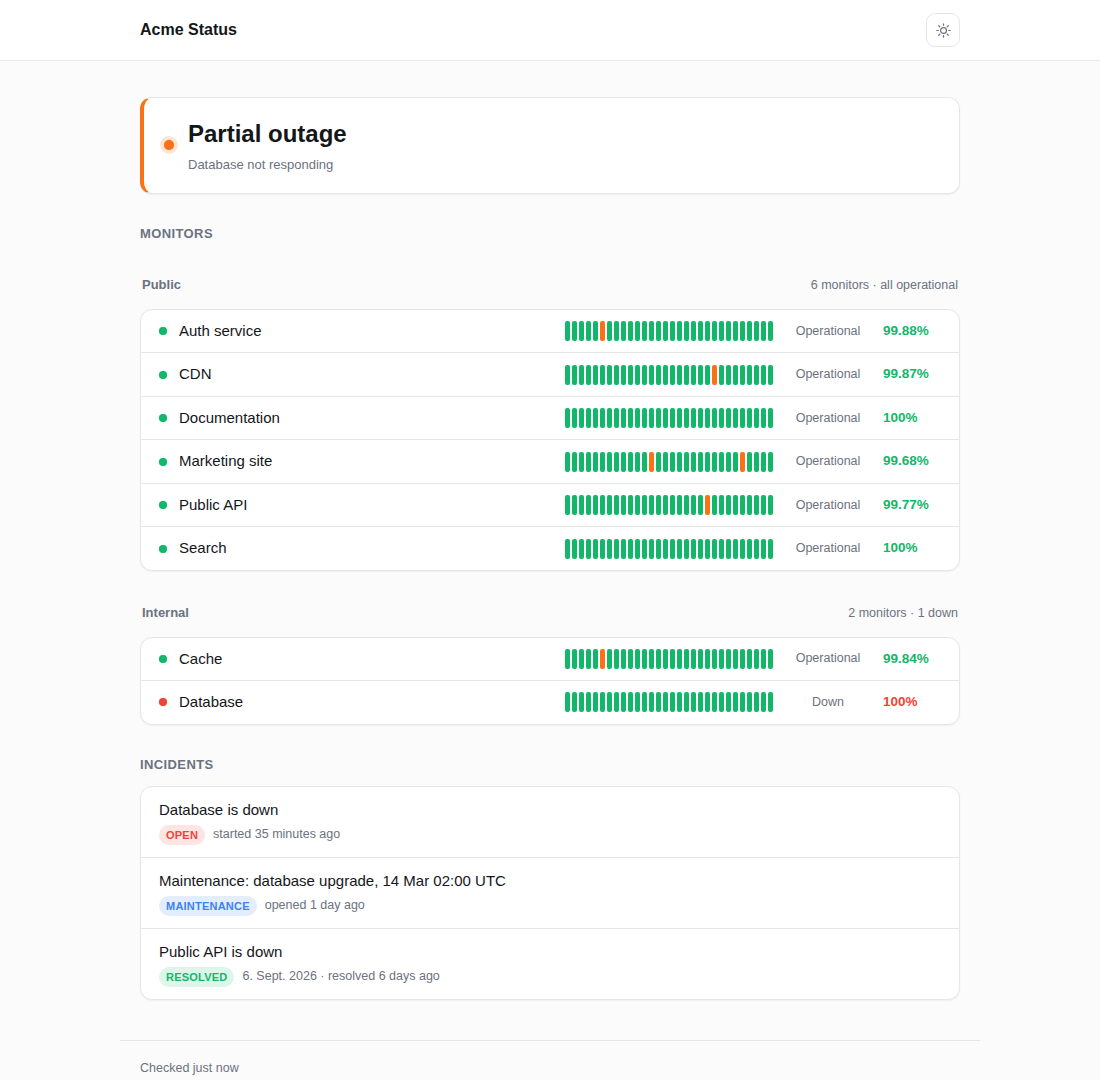
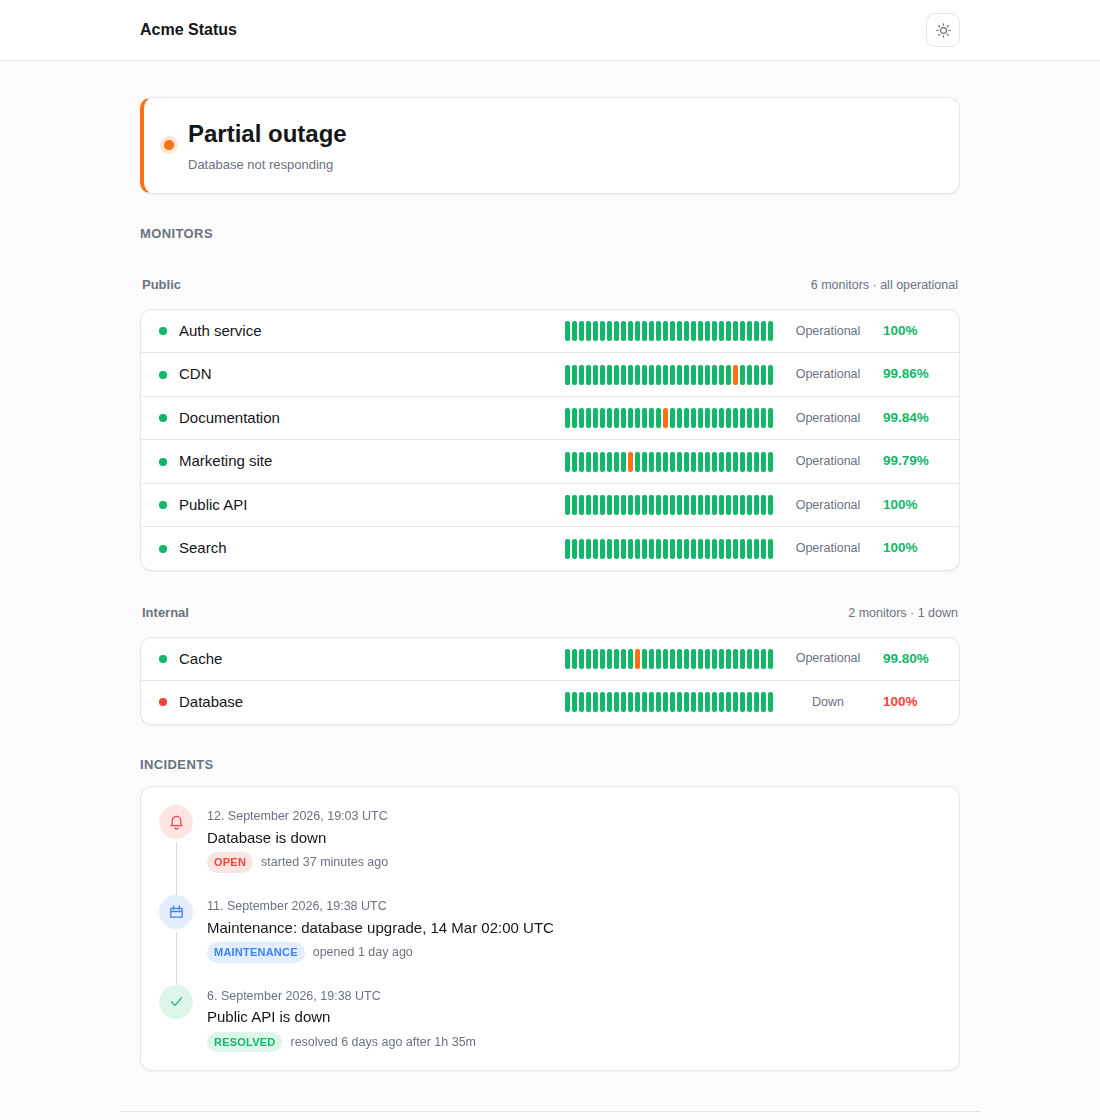
feat: incidents read as a timeline
Each incident is an entry on a line now: a marker coloured for what it is, an
outage, planned maintenance or something resolved, joined to the next entry,
with the date and time it happened as the entry's heading and the title below
it.

Date and time are formatted apart and joined with a comma, because asking a
locale for both at once puts a connecting word between them, and stated in
UTC so they mean the same to every reader.

The list in a monitor's details is the same timeline, since both are built by
the same renderer.

diff --git a/site/app.js b/site/app.js
@@ -65,6 +65,24 @@ function elapsed(from, to) {
   return `${Math.floor(hours / 24)}d ${hours % 24}h`;
 }
 
+// Date and time are formatted apart and joined with a comma: asking for both
+// at once gives some locales a connecting word in the middle.
+function formatDateTime(iso) {
+  const at = new Date(iso);
+  const day = at.toLocaleDateString(undefined, {
+    day: 'numeric',
+    month: 'long',
+    year: 'numeric',
+    timeZone: 'UTC',
+  });
+  const time = at.toLocaleTimeString(undefined, {
+    hour: '2-digit',
+    minute: '2-digit',
+    timeZone: 'UTC',
+  });
+  return `${day}, ${time} UTC`;
+}
+
 function formatDate(iso) {
   return new Date(iso).toLocaleDateString(undefined, { month: 'short', day: 'numeric', year: 'numeric' });
 }
@@ -215,20 +233,36 @@ function figure(value, label) {
   return box;
 }
 
+const INCIDENT_ICONS = {
+  open: 'M12 3.5a6 6 0 0 1 6 6v4l1.6 3H4.4L6 13.5v-4a6 6 0 0 1 6-6zM9.7 19.5a2.4 2.4 0 0 0 4.6 0',
+  maintenance: 'M4 7.5h16v12.5H4zM8 4v5M16 4v5M4 12h16',
+  resolved: 'M5 12.5 10 17.5 19 7',
+};
+
+// One entry of the timeline: when it happened, what happened, and how it went.
 function renderIncidentItem(incident) {
-  const item = el('li');
-  const open = () => {
+  const state = incident.maintenance ? 'maintenance' : incident.state === 'open' ? 'open' : 'resolved';
+  const item = el('li', 'event');
+  item.dataset.state = state;
+
+  const icon = el('span', 'event-icon');
+  const mark = svg('svg', { viewBox: '0 0 24 24' });
+  mark.append(svg('path', { d: INCIDENT_ICONS[state], 'stroke-linecap': 'round', 'stroke-linejoin': 'round' }));
+  icon.append(mark);
+
+  const body = el('div', 'event-body');
+  body.append(el('div', 'event-date', formatDateTime(incident.createdAt)));
+
+  const title = el('button', 'incident-title', incident.title);
+  title.type = 'button';
+  title.addEventListener('click', () => {
     const hash = `#/incident/${incident.number}`;
     if (location.hash === hash) openIncident(incident.number);
     else location.hash = hash;
-  };
-  const title = el('button', 'incident-title', incident.title);
-  title.type = 'button';
-  title.addEventListener('click', open);
-  item.append(title);
+  });
+  body.append(title);
 
   const meta = el('div', 'incident-meta');
-  const state = incident.maintenance ? 'maintenance' : incident.state === 'open' ? 'open' : 'resolved';
   meta.append(el('span', `tag tag-${state}`, state));
   meta.append(
     el(
@@ -236,10 +270,12 @@ function renderIncidentItem(incident) {
       null,
       incident.state === 'open'
         ? `${incident.maintenance ? 'opened' : 'started'} ${relative(incident.createdAt)}`
-        : `${formatDate(incident.createdAt)} · ${incident.maintenance ? 'completed' : 'resolved'} ${relative(incident.closedAt)}`,
+        : `${incident.maintenance ? 'completed' : 'resolved'} ${relative(incident.closedAt)} after ${elapsed(incident.createdAt, incident.closedAt)}`,
     ),
   );
-  item.append(meta);
+  body.append(meta);
+
+  item.append(icon, body);
   return item;
 }
 

diff --git a/site/style.css b/site/style.css
@@ -204,32 +204,84 @@ main.shell {
   padding: 0;
 }
 
-.incident-list li {
-  padding: 10px 0;
-  border-top: 1px solid var(--border);
+/* A timeline: a marker per entry, joined by a line down to the next one. */
+.event {
+  position: relative;
+  display: flex;
+  gap: 14px;
+  padding-bottom: 22px;
 }
 
-.incident-list li:first-child {
-  border-top: 0;
+.event:last-child {
+  padding-bottom: 0;
+}
+
+.event:not(:last-child)::before {
+  content: '';
+  position: absolute;
+  left: 17px;
+  top: 37px;
+  bottom: -3px;
+  width: 1px;
+  background: color-mix(in srgb, var(--text) 16%, transparent);
+}
+
+.event-icon {
+  flex: none;
+  display: grid;
+  place-items: center;
+  width: 34px;
+  height: 34px;
+  border-radius: 50%;
+  background: color-mix(in srgb, var(--status, var(--muted)) 14%, var(--surface));
+  color: var(--status, var(--muted));
+}
+
+.event[data-state='open'] {
+  --status: var(--down);
+}
+
+.event[data-state='maintenance'] {
+  --status: #3b82f6;
+}
+
+.event[data-state='resolved'] {
+  --status: var(--up);
+}
+
+.event-icon svg {
+  width: 17px;
+  height: 17px;
+  fill: none;
+  stroke: currentColor;
+  stroke-width: 1.8;
+}
+
+.event-body {
+  min-width: 0;
+  padding-top: 2px;
+}
+
+.event-date {
+  font-size: 12.5px;
+  color: var(--muted);
 }
 
 /* Only the list on the page is a box of its own, with the heading above it as
    the monitors have. The one inside a dialog stays flat. */
 #incident-list {
+  padding: 18px;
   border: 1px solid var(--border);
   border-radius: var(--radius);
   background: var(--surface);
   box-shadow: var(--shadow);
-  overflow: hidden;
-}
-
-#incident-list li {
-  padding: 12px 18px;
 }
 
 .incident-title {
   display: block;
+  margin-top: 1px;
   padding: 0;
+  font-size: 15px;
   border: 0;
   background: none;
   font: inherit;
